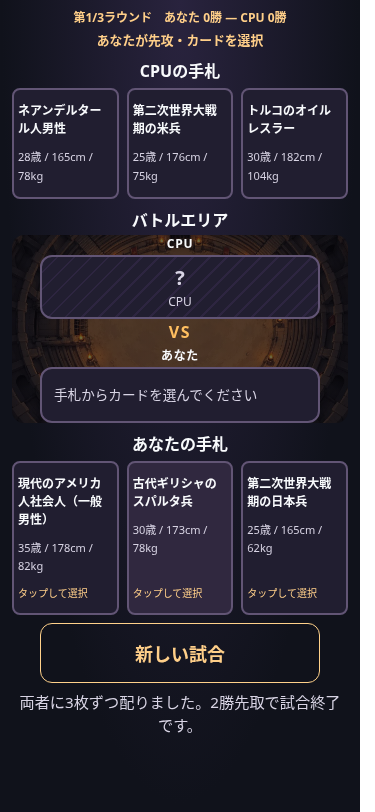
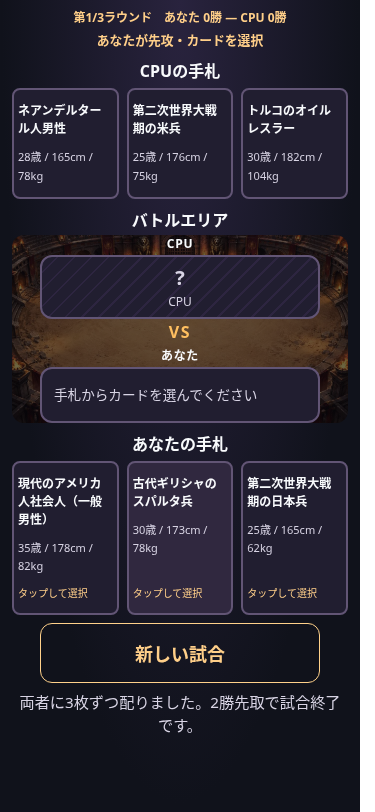
Replace arena background with supplied landscape colosseum

diff --git a/docs/colosseum-background.md b/docs/colosseum-background.md
@@ -2,7 +2,7 @@
 
 ## 導入画像
 
-ユーザー添付の `1174.jpg`（JPEG、1280×720px、117,159バイト）を、`assets/backgrounds/colosseum.webp` に変換して導入しました。WebP品質85、元の解像度・構図を保持し、111,472バイト（約109KiB、元画像から4.9%削減）です。代替画像や生成画像は使用していません。
+ユーザー添付の `1179.jpg`（JPEG、1280×720px、145,567バイト）を、`assets/backgrounds/colosseum.webp` に変換して導入しました。WebP品質82、元の解像度・構図を保持し、134,744バイト（約132KiB、元画像から7.4%削減）です。代替画像や生成画像は使用していません。
 
 ## 背景の設定と差し替え
 
@@ -36,6 +36,6 @@
 
 ブラウザのネットワークアクセスには実行環境の制限があるため、Chromium検証では実ファイルの画像・スクリプトをインライン化しています。製品では通常の相対URLを使います。実機Safari・公開GitHub Pages配信の確認は含みません。
 
-375pxの表示例（背景を有効化した初期状態）：
+375pxの表示例（横向きコロシアム画像へ差し替え後）：
 
 ![コロシアム背景と手札各3枚](screenshots/colosseum-375.png)

diff --git a/assets/backgrounds/README.md b/assets/backgrounds/README.md
@@ -1,6 +1,6 @@
 # 背景画像の配置先
 
-`colosseum.webp` はユーザー提供の `1174.jpg` をWebP形式へ変換した画像です。
-1280×720px、111,472バイト。構図や解像度を変えず、WebP品質85で保存しています。
+`colosseum.webp` はユーザー提供の `1179.jpg` をWebP形式へ変換した画像です。
+1280×720px、134,744バイト。構図や解像度を変えず、WebP品質82で保存しています。
 
 設定方法・画像サイズ・テストについては [背景の導入手順](../../docs/colosseum-background.md) を参照してください。
